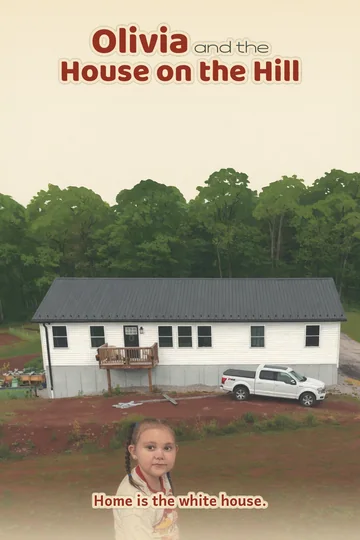
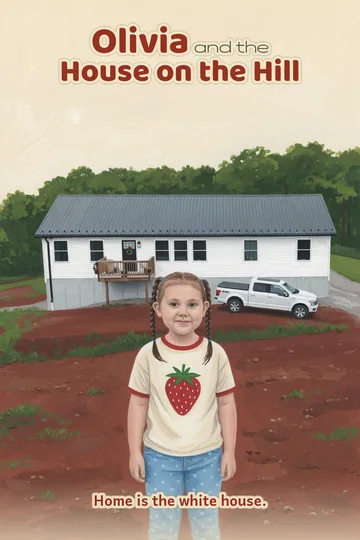
Finish Olivia home covers and six-page catalog copy.
House on the Hill was a tiny pasted figure on an aerial photo; Yard Romp was missing Zero. Both covers are now painted from the family references with lettered titles. Catalog page copy matches the six-page picture books.

diff --git a/src/data/olivia-home-series.ts b/src/data/olivia-home-series.ts
@@ -29,10 +29,12 @@ export const oliviaHomeBooks: Book[] = [
       "Olivia sits on the beige couch with Zero, who loves rocks, and Belle, who never sits still.",
     ),
     pages: [
-      e("Olivia sat on the beige couch between Zero, calm as a Sunday, and Belle, who never sits still."),
-      e("Zero is eight and loves rocks. Olivia whispered, \"You are a quiet queen.\""),
-      e("Belle is eleven months and bounce. Olivia laughed. \"You are a wrecking ball with ears.\""),
-      e("Back on the couch. Two sisters. One girl. All happy."),
+      e("Olivia sat on the beige couch. On one side sat Zero, brown as toast, calm as a Sunday. On the other bounced Belle, jet black with tan legs, almost as big, never still."),
+      e("Zero is eight. She loves rocks. Smooth ones. Stripey ones. The one that fits her paw just so. Olivia whispered, \"You are a quiet queen.\""),
+      e("Belle is eleven months. She wrecks the pillow pile. She play-bites the air. Her tail says, I have an idea. Olivia laughed. \"You are a wrecking ball with ears.\""),
+      e("The yard was red clay and green woods. Belle zoomed. Zero followed, because sisters do. Olivia ran after both."),
+      e("\"Why is Zero still and Belle wild?\" asked Olivia. Zero's ears said, I am the older one. Belle's tail said, I am the puppy. That is how sisters work."),
+      e("Back on the couch. Zero with her rock. Belle with her wiggle. Olivia in the middle. Two sisters. One girl. All happy."),
     ],
     quiz: [q("Who is the calm older sister?", "Zero", "Belle", "the couch")],
   },
@@ -50,10 +52,12 @@ export const oliviaHomeBooks: Book[] = [
       "Zero's favorite rock goes missing. Belle has an idea. Olivia leads the search until the treasure comes home.",
     ),
     pages: [
-      e("Zero looked at her paws. The smooth rock was not there."),
-      e("Belle zoomed across the yard. Olivia and Zero followed."),
-      e("In the grass sat the rock. Smooth as a secret."),
-      e("Olivia gave it back. The search was done."),
+      e("Zero looked at her paws. The smooth rock was not there. Olivia said, \"We will find it.\" Belle's tail said, I have an idea."),
+      e("Belle zoomed across the yard. Maybe she took it. Maybe she was helping. Olivia and Zero followed, because that is what a search party does."),
+      e("They looked under the wooden chairs. They looked by the picnic table. No rock. Olivia said, \"Where would a treasure hide?\""),
+      e("The garden smelled like dirt and leaves. Zero put her nose down. Belle splashed a watering pot. Olivia looked between the green."),
+      e("In the grass sat the rock. Smooth as a secret. Zero nosed it kind. Belle dropped a tiny pebble beside it. \"Yours,\" said the pebble."),
+      e("Olivia carried the rock as far as the patio. Then she gave it back. Zero kept it. Belle kept bouncing. The search was done."),
     ],
     quiz: [q("Whose rock went missing?", "Zero's", "Belle's", "Olivia's")],
   },
@@ -71,10 +75,12 @@ export const oliviaHomeBooks: Book[] = [
       "Olivia bursts onto the red-clay yard with Belle racing ahead and Zero trotting behind.",
     ),
     pages: [
-      e("The black door swung wide. Olivia jumped down to the red clay."),
-      e("Belle was already a black streak. Olivia laughed and ran."),
-      e("Zero trotted, calm, one eye on everyone."),
-      e("Shoes full of red dust. Two tails. One laugh. Home."),
+      e("The black door on the little wooden deck swung wide. Olivia jumped down to the red clay. \"Come on!\" The yard was waiting."),
+      e("Belle was already a black streak across the clay. Tan legs flying. Tail like a flag. Olivia laughed so hard she had to run to keep up."),
+      e("Zero did not race. She trotted, calm, because older sisters do. She kept one eye on Belle and one eye on Olivia. That is a job too."),
+      e("They looped the wooden chairs. They passed the picnic table. They sniffed the oval garden bed. The yard was a whole world, and it was theirs."),
+      e("Green woods stood all around, like a quiet fence. Olivia waved at them. Belle barked once at a bird. Zero sat, queen of the clay."),
+      e("Shoes full of red dust. Two tails wagging. One laugh left. They climbed the little deck. Home smelled like dinner and couch. The romp was done — until tomorrow."),
     ],
     quiz: [q("Who races ahead?", "Belle", "Zero", "the shed")],
   },
@@ -92,10 +98,12 @@ export const oliviaHomeBooks: Book[] = [
       "Olivia waters the wooden raised beds beside the white house with a green can.",
     ),
     pages: [
-      e("Olivia stood by the wooden garden beds. \"Thirsty?\" she asked the leaves."),
-      e("The green watering can was heavier than it looked. Dirt went dark and glad."),
-      e("Even the smallest pot got a sip. Fair is fair."),
-      e("Fingernails had a line of dirt, like a badge."),
+      e("Olivia stood by the wooden garden beds. Leaves were already busy being green. \"Thirsty?\" she asked them, as if leaves could answer."),
+      e("The green watering can was heavier than it looked. Olivia tipped it. A silver ribbon of water landed on the dirt. The dirt went dark and glad."),
+      e("Colored pots sat on the gravel like a tiny town. Olivia gave each one a sip. \"Fair is fair,\" she said. Even the smallest pot got a drink."),
+      e("A little wire house stood in the gravel. Something rustled. Olivia whispered, \"We are growing lunch. You can watch.\" The rustle said, all right."),
+      e("The white home with the dark roof watched the garden the way a kind giant watches. Olivia waved at the windows. The windows shone back."),
+      e("The can was empty. Olivia's fingernails had a line of dirt, like a badge. The leaves looked taller. Maybe they were. Maybe she was."),
     ],
     quiz: [q("What does Olivia use to water?", "a green can", "a rocket", "a rock")],
   },
@@ -113,10 +121,12 @@ export const oliviaHomeBooks: Book[] = [
       "Olivia sits on the green hill and wonders why the dark panels shine gold.",
     ),
     pages: [
-      e("Olivia sat in the grass. Dark panels lay like quiet books left open."),
-      e("They drank the light and kept it, gold where the sun touched them."),
-      e("The hill drinks day so the house can have night."),
-      e("\"Thank you for working when nobody is looking,\" said Olivia."),
+      e("Olivia sat in the grass. Up the slope, dark panels lay like quiet books left open. They were gold where the sun touched them."),
+      e("\"Why do they shine?\" asked Olivia. The sun did not answer with words. It just kept pouring light, the way a kettle pours."),
+      e("The panels drank the light and kept it. Not like a cup. Like a secret. Olivia put her palm on the grass. The grass was warm too."),
+      e("A little gray shed stood beside the gold. It did not shine. It just kept tools and shade. Olivia liked that. Not everything has to glow."),
+      e("Down the hill, the white home waited. Lamps would come on later, easy as blinking. Olivia understood a little: the hill drinks day so the house can have night."),
+      e("Olivia waved at the sun. \"Thank you for working when nobody is looking.\" The panels kept shining, gold and quiet, which is a kind of answer."),
     ],
     quiz: [q("What shines gold on the hill?", "solar panels", "the couch", "a rock")],
   },
@@ -134,10 +144,12 @@ export const oliviaHomeBooks: Book[] = [
       "Olivia walks the red clay in front of her long white house and learns the shape of home.",
     ),
     pages: [
-      e("Olivia stood in the red clay and looked up. Long white walls. A dark metal roof."),
-      e("A white pickup slept on the clay like a big tame animal."),
-      e("Green woods wrapped the hill. Home was the trees too."),
-      e("The black door opened. The white house took them in."),
+      e("Olivia stood in the red clay and looked up. Long white walls. A dark metal roof. A little wooden deck. \"That is my home,\" she told the woods, in case the woods did not know."),
+      e("The deck was a wooden pocket on the front. A black door. A wreath. Olivia waved from the clay as if she were arriving from far away, which she was not, but it felt true."),
+      e("A white pickup slept on the clay like a big tame animal. Zero sniffed a tire. Belle wanted to climb it. Olivia said, \"Not today.\""),
+      e("Green woods wrapped the hill the way arms wrap a sleep. Olivia liked that. Home was not just a house. Home was the trees that kept it company."),
+      e("Around the corner, the garden tables waited, and the gravel, and the glass doors. Olivia knew every turn. Knowing a place is a kind of love."),
+      e("Olivia climbed the deck. Zero and Belle came too. The black door opened. The white house took them in, the way it always does. That is the whole trick of home."),
     ],
     quiz: [q("What color is the house?", "white", "purple", "gold")],
   },

diff --git a/scripts/pack-olivia-home-books.py b/scripts/pack-olivia-home-books.py
@@ -53,7 +53,7 @@ BOOKS = [
         "name": "Olivia",
         "rest": "Yard Romp",
         "subtitle": "Red clay, two tails, one laugh.",
-        "cover": "19.jpg",
+        "cover": "23.jpg",
         "backs": {"patio": "15.jpg", "house": "14.jpg"},
         "props": ["olivia-stand", "zero", "belle"],
         "wall": "15.jpg",
@@ -86,7 +86,7 @@ BOOKS = [
         "name": "Olivia",
         "rest": "House on the Hill",
         "subtitle": "Home is the white house.",
-        "cover": "17.jpg",
+        "cover": "24.jpg",
         "backs": {"house": "14.jpg", "garden": "13.jpg"},
         "props": ["olivia-stand", "zero", "belle"],
         "wall": "14.jpg",
